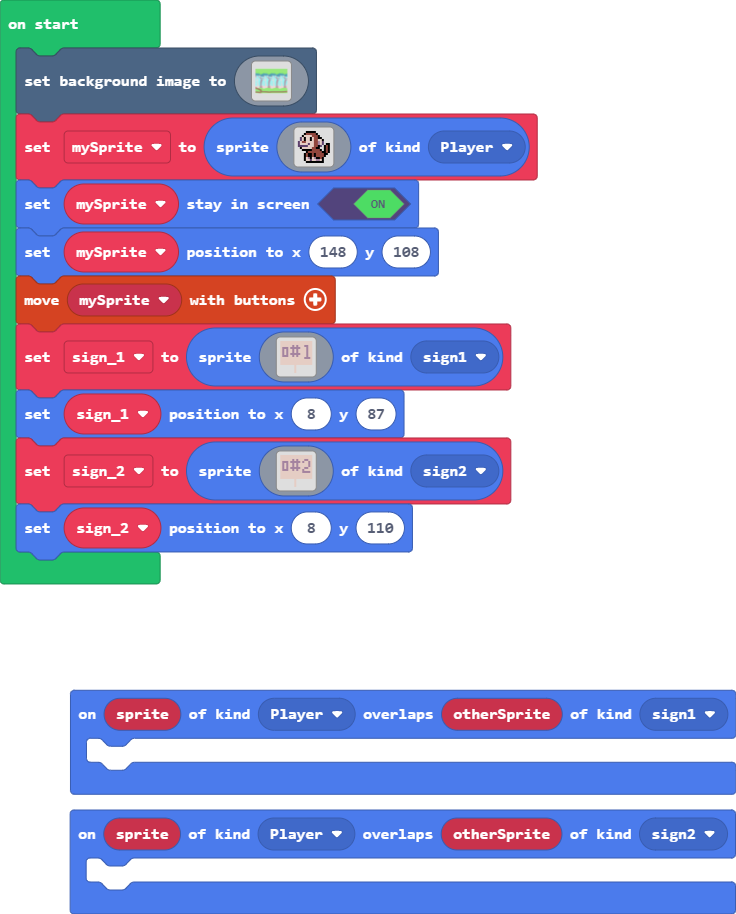
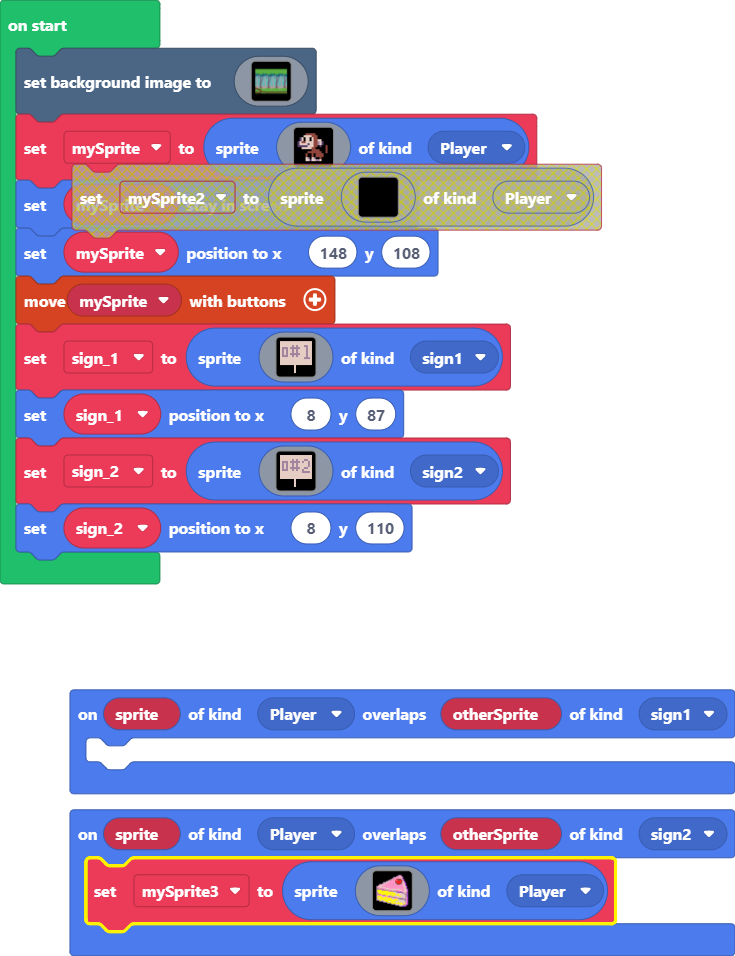
added pie

diff --git a/main.ts b/main.ts
@@ -3,11 +3,45 @@ namespace SpriteKind {
     export const sign2 = SpriteKind.create()
 }
 sprites.onOverlap(SpriteKind.Player, SpriteKind.sign2, function (sprite, otherSprite) {
-	
+    mySprite3 = sprites.create(img`
+        ......................bbb.......
+        ....................bb333b......
+        .................bbb333d33b.....
+        ................bb333333d3a.....
+        ..............bb33332eeeedba....
+        ............bbb333323eee2e3a....
+        ..........bbd333333e22222ed3a...
+        .......bbbdd3333333e22222edda...
+        ......bb3d333333333be222eb3d3a..
+        ...bbb3dd33333333333beeeb33d3a..
+        ..b3ddd33333333333333333333dda..
+        bbddd3333333333333333333333dd3a.
+        b33dddddd3333333333333333333d3a.
+        bb3333333ddddd33333333333333dda.
+        bbbbbbb333dd33dddddddddd3333ddba
+        b55553bbbbbb3333dd33333ddd33dd3a
+        b555555555553bbbbbbbb33333dddd3a
+        bd555555555555555dddbaaaaab3d3ba
+        bb55555555555555555dddddddbb33ba
+        b3bb35555555555d5555d55dddddbbba
+        b33333bbb355dd55555d555ddddddbba
+        b5555d333333bbb35dddddd55ddddbba
+        b5d555dd5553333bbbbb3ddddddddb3a
+        b5d555555555555dd3333bbbbbb3db3a
+        bd5d555555d55555dd555ddbbbbbbb3a
+        bbb55dd555555555555555ddddddbb3a
+        ...bbbbdd555ddd5555ddddddddddb3a
+        .......bbbb555555d5ddd5ddddddb3a
+        ...........bbbb55555555555dd533a
+        ...............bbbbddd5d55d5b3ba
+        ...................bbbbddddb3ba.
+        .......................bbbaaaa..
+        `, SpriteKind.Player)
 })
 sprites.onOverlap(SpriteKind.Player, SpriteKind.sign1, function (sprite, otherSprite) {
 	
 })
+let mySprite3: Sprite = null
 scene.setBackgroundImage(img`
     7777777777777777777777777777777777777777777777777777777777777777777777777777777777777777777777777777777777777777777777777777777777777777777777777777777777777777
     7777777777777777777777777777777777777777777777777777777777777777777777777777777777777777777777777777777777777777777777777777777777777777777777777777777777777777
